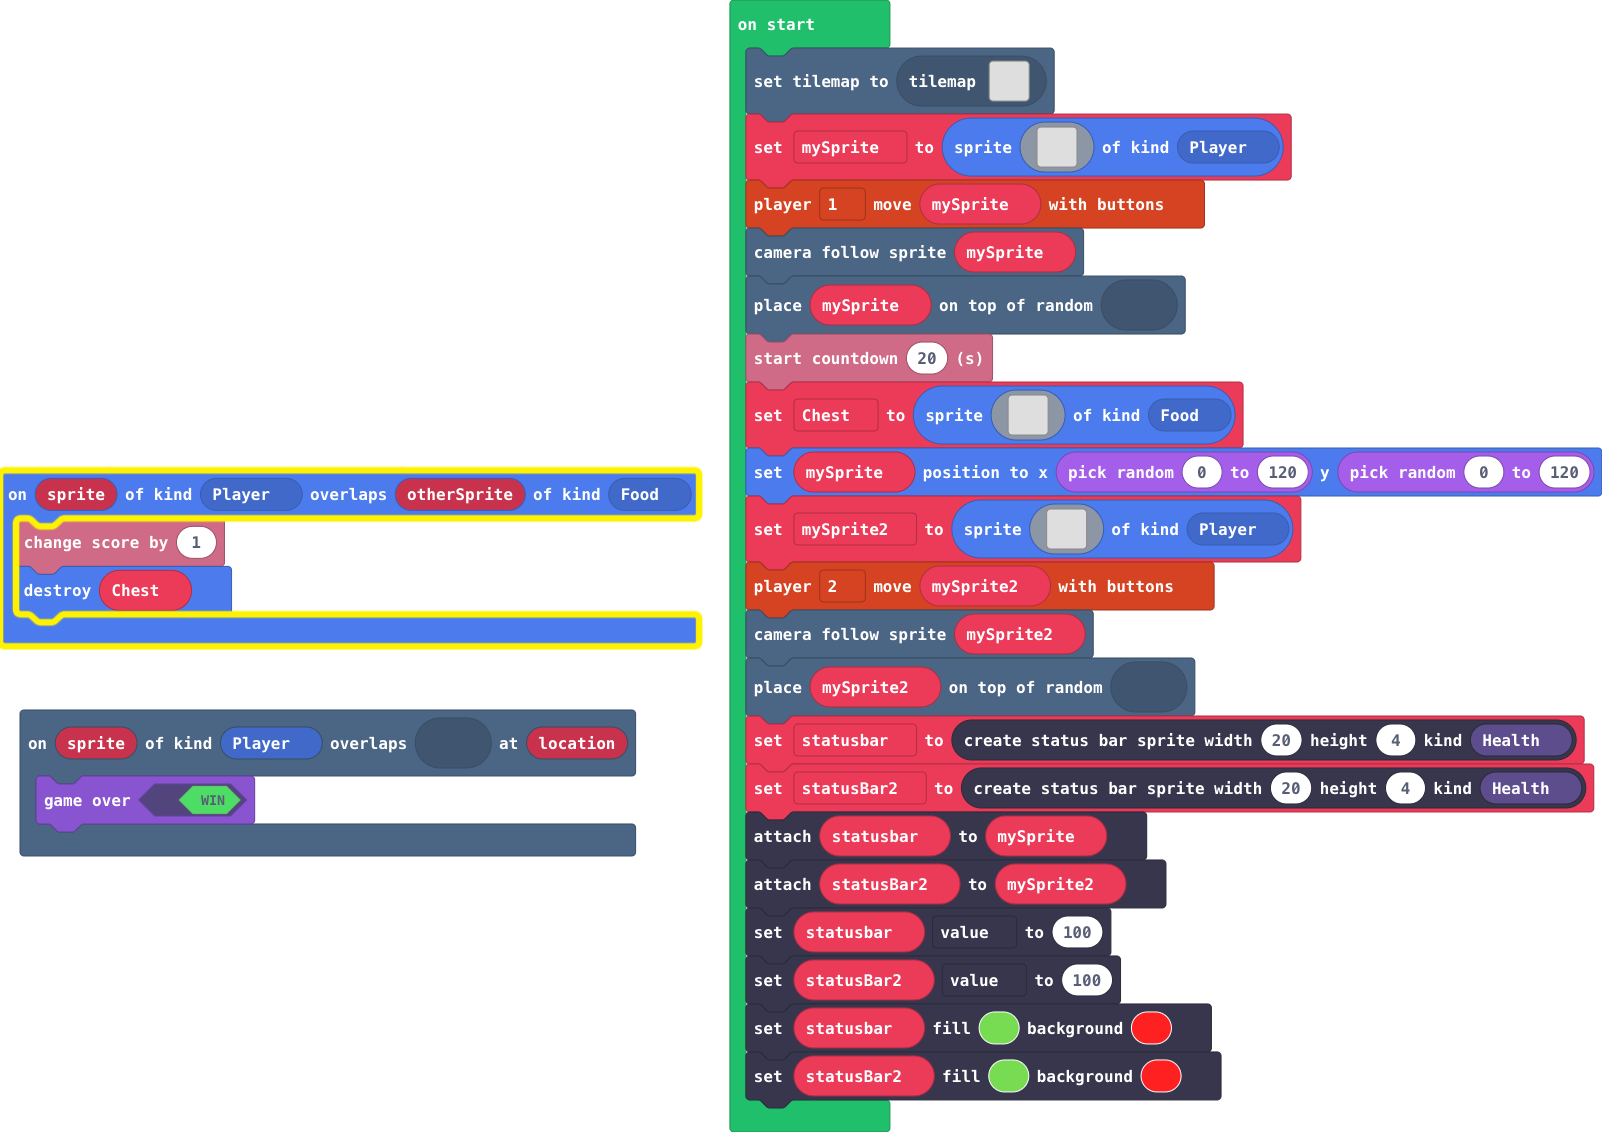
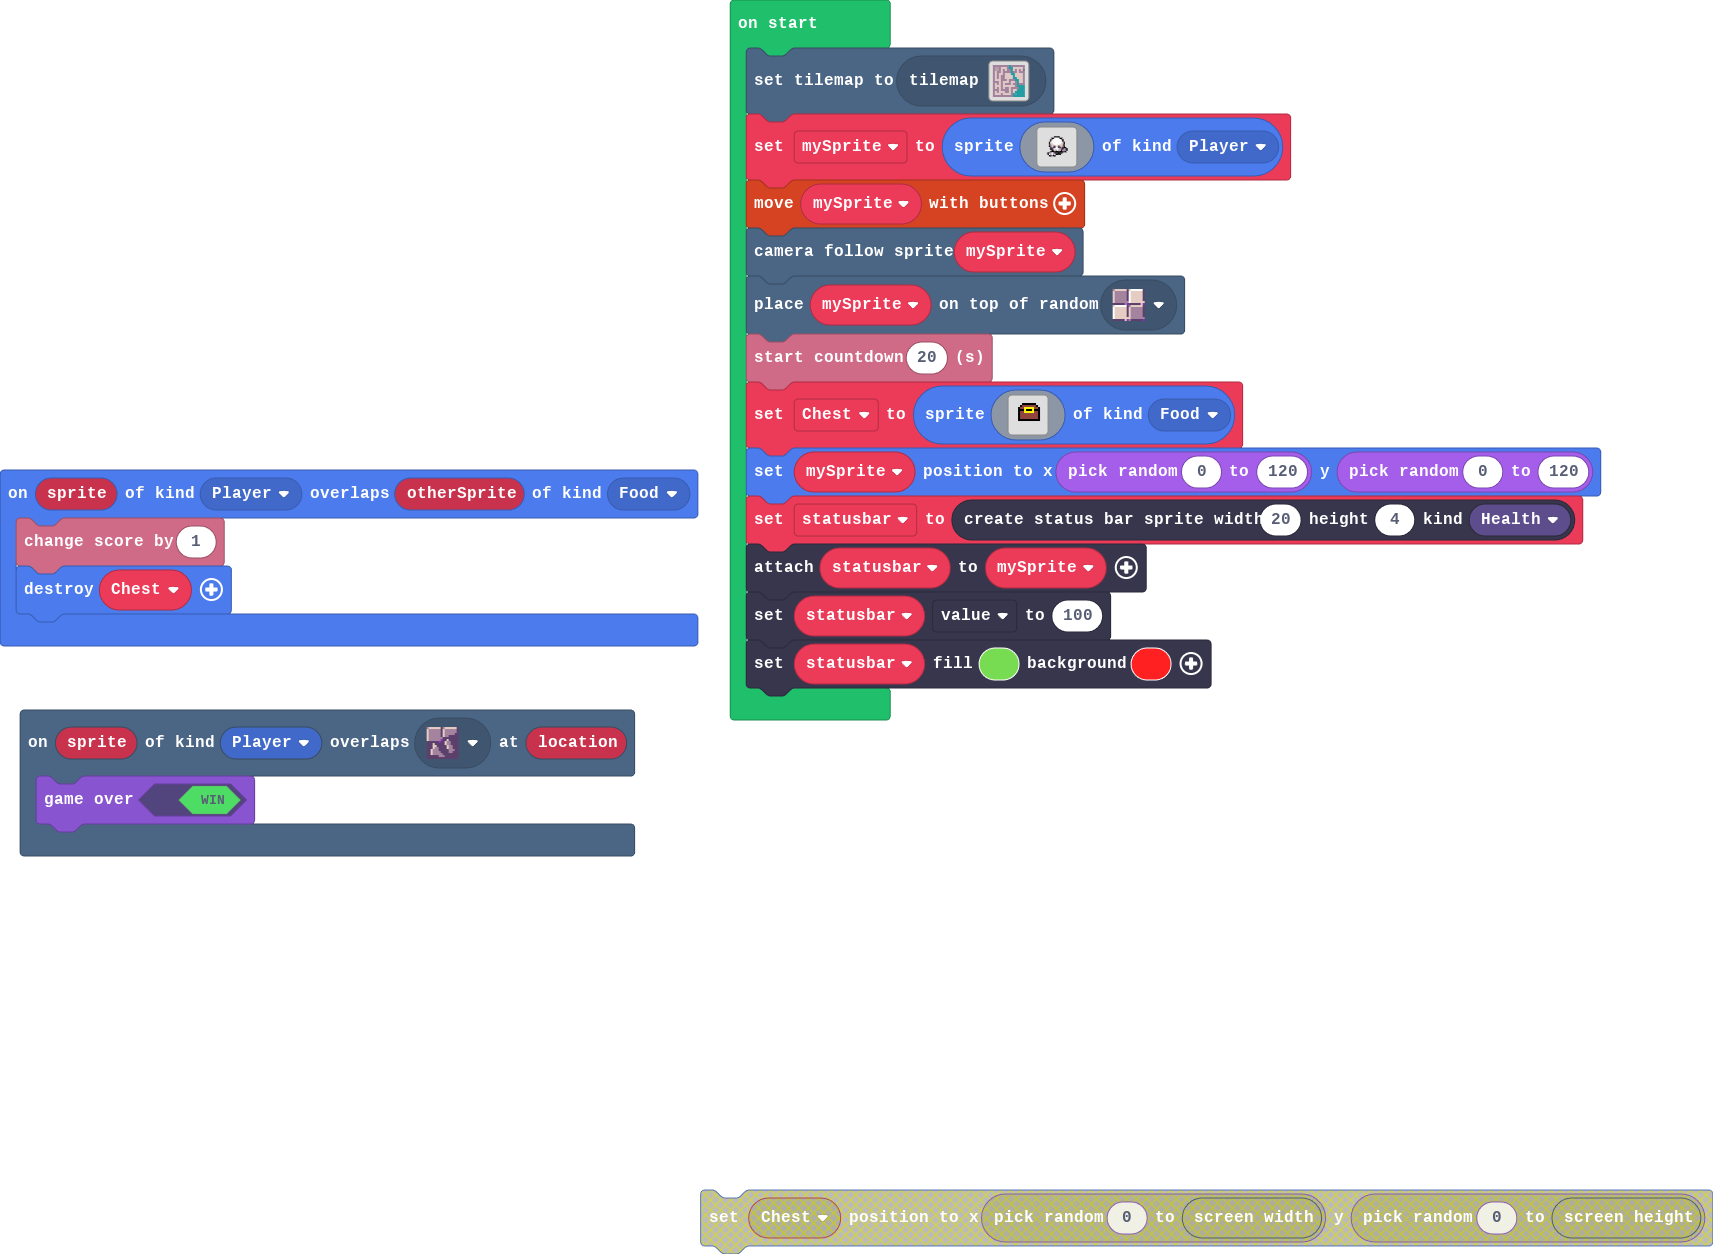
Update main.blocks, main.ts

diff --git a/main.ts b/main.ts
@@ -33,7 +33,7 @@ let mySprite = sprites.create(img`
     ........................
     ........................
     `, SpriteKind.Player)
-controller.player1.moveSprite(mySprite)
+controller.moveSprite(mySprite)
 scene.cameraFollowSprite(mySprite)
 tiles.placeOnRandomTile(mySprite, sprites.dungeon.floorMixed)
 info.startCountdown(20)
@@ -56,40 +56,7 @@ Chest = sprites.create(img`
     . . . . . . . . . . . . . . . . 
     `, SpriteKind.Food)
 mySprite.setPosition(randint(0, 120), randint(0, 120))
-let mySprite2 = sprites.create(img`
-    ........................
-    ........................
-    ........................
-    ........................
-    ..........ffff..........
-    ........ff2222ff........
-    .......f52222225f.......
-    .......f22222222f.......
-    ......f4222222224f......
-    ......f4222222224f......
-    ......f4442222444f......
-    ......f545f44f545f......
-    ......fd4df22fd4df......
-    .......f52222225f.......
-    ......fffd45254ffff.....
-    ....fd222d5f5fd222df....
-    ....f25252ffff25252f....
-    ....f5f5ffffff5f5f5f....
-    .........ffffff.........
-    ...........fff..........
-    ........................
-    ........................
-    ........................
-    ........................
-    `, SpriteKind.Player)
-controller.player2.moveSprite(mySprite2)
-scene.cameraFollowSprite(mySprite2)
-tiles.placeOnRandomTile(mySprite2, sprites.dungeon.floorMixed)
 let statusbar = statusbars.create(20, 4, StatusBarKind.Health)
-let statusBar2 = statusbars.create(20, 4, StatusBarKind.Health)
 statusbar.attachToSprite(mySprite)
-statusBar2.attachToSprite(mySprite2)
 statusbar.value = 100
-statusBar2.value = 100
 statusbar.setColor(7, 2)
-statusBar2.setColor(7, 2)
